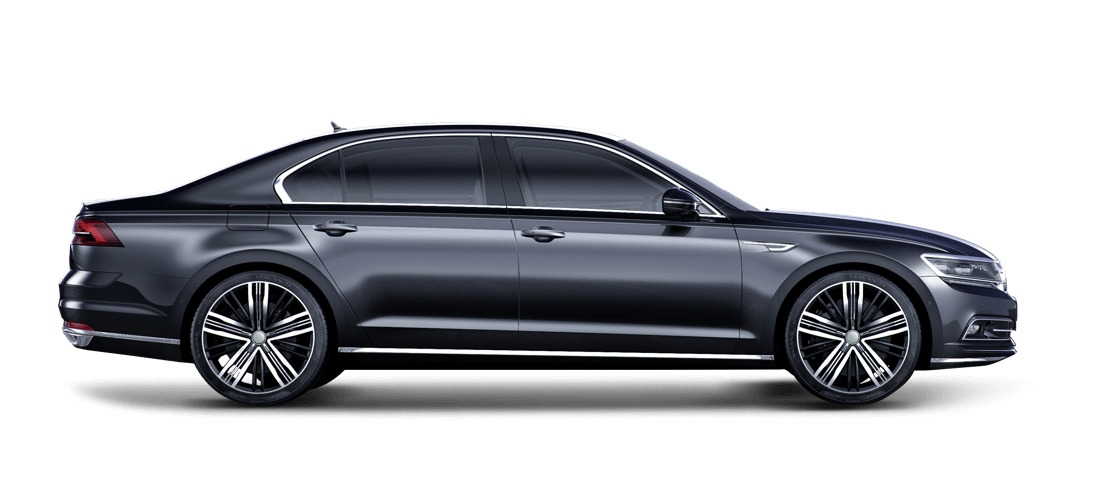
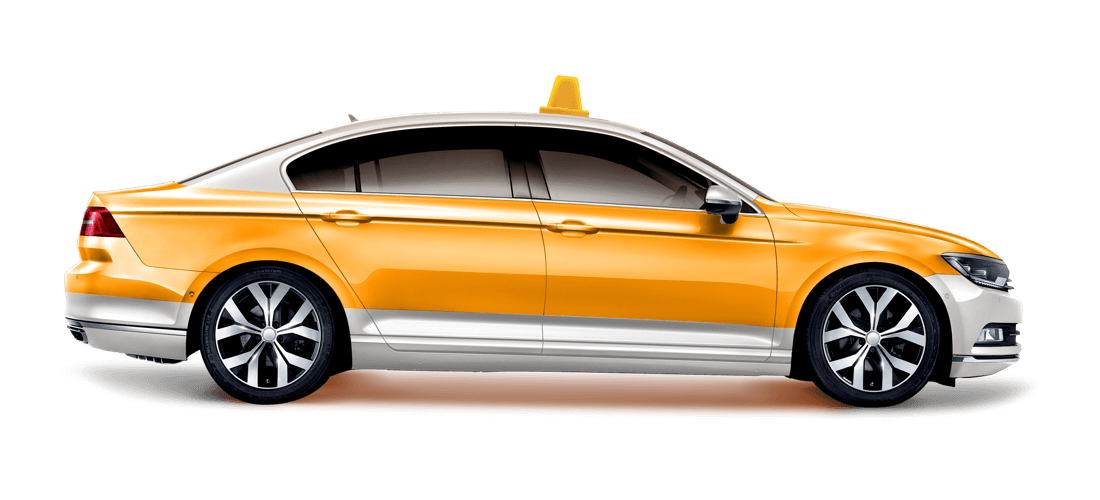
ThirdDay

diff --git a/gaja/src/component/Slider.js b/gaja/src/component/Slider.js
@@ -1,78 +1,38 @@
-import React, { useState, useEffect, useRef } from "react";
-import Slide from "./Slide";
-import styled from "styled-components";
-import img1 from "./../img/car1.jpg"; //자신이 원하는 이미지를 import 하세요.
-import img2 from "./../img/car2.JPG";
-import img3 from "./../img/car3.JPG";
-import img4 from "./../img/car4.JPG";
-import img5 from "./../img/car5.JPG";
-import img6 from "./../img/car6.JPG";
-import styles from "./css/Slider.module.css";
+import React, { useState } from "react";
+import SliderContent from "./SliderContent";
+import imageSlider from "./imageSlider";
+import Arrows from "./Arrows";
 
-const Container = styled.div`
-  width: 60%;
-  overflow: hidden; // 선을 넘어간 이미지들은 보이지 않도록 처리합니다.
-`;
-const Button = styled.button`
-  all: unset;
-  border: 1px solid coral;
-  padding: 0.5em 2em;
-  color: black;
-  border-radius: 10px;
-  &:hover {
-    transition: all 0.3s ease-in-out;
-    background-color: coral;
-    color: #fff;
-  }
-`;
-const SliderContainer = styled.div`
-  width: 100%;
-  display: flex; //이미지들을 가로로 나열합니다.
-`;
+import './Slider.css';
+// import Dots from "./Dots";
 
-const TOTAL_SLIDES = 2;
-export default function Slider() {
-  const [currentSlide, setCurrentSlide] = useState(0);
-  const slideRef = useRef(null);
-const nextSlide = () => {
-    if (currentSlide >= TOTAL_SLIDES) { // 더 이상 넘어갈 슬라이드가 없으면 슬라이드를 초기화합니다.
-      setCurrentSlide(0);
-    } else {
-      setCurrentSlide(currentSlide + 1);
-    }
-  };
-  const prevSlide = () => {
-    if (currentSlide === 0) {
-      setCurrentSlide(TOTAL_SLIDES);
-    } else {
-      setCurrentSlide(currentSlide - 1);
-    }
-  };
 
-  useEffect(() => {
-    slideRef.current.style.transition = "all 0.5s ease-in-out";
-    slideRef.current.style.transform = `translateX(-${currentSlide}00%)`; // 백틱을 사용하여 슬라이드로 이동하는 애니메이션을 만듭니다.
-  }, [currentSlide]);
-return (
-    <>
-    <div className={styles.sliderMain}>
-      <span>
-    <Container>
-      {currentSlide}
-      <SliderContainer ref={slideRef}>
-        <Slide img={img1} />
-        <Slide img={img2} />
-        <Slide img={img3} />
-        <Slide img={img4} />
-        <Slide img={img5} />
-        <Slide img={img6} />
-      </SliderContainer>
-      <Button onClick={prevSlide}>Previous Slide</Button>
-      <Button onClick={nextSlide}>Next Slide</Button>
-    </Container>
-    </span>
+const len = imageSlider.length -1;
 
-    </div>
-    </>
-  );
+export default function Slider(props) {
+    const [activeIndex, setActiveIndex] =useState(0);
+
+    return(
+        
+        <div className="slider-contatiner">
+            <br />
+            <h1>OPTIONs</h1>
+            <SliderContent activeIndex={activeIndex} imageSlider={imageSlider} 
+            />
+            <Arrows 
+                prevSlide={() =>
+                    setActiveIndex(activeIndex < 1 ? len : activeIndex -1)
+                }
+
+                nextSlide={()=>
+                    setActiveIndex(activeIndex === len ? 0 :activeIndex +1)
+                }
+            />
+            {/* <Dots 
+                activeIndex={activeIndex}
+                imageSlider={imageSlider}
+                onclick={(activeIndex) => setActiveIndex(activeIndex)}
+            /> */}
+        </div>
+    );
 }

diff --git a/gaja/src/component/Slider.css b/gaja/src/component/Slider.css
@@ -1,0 +1,112 @@
+*{
+    box-sizing: border-box;
+    margin: 0;
+    align-items: center;
+}
+
+:root {
+    --heights: 70vh;
+    --widths: 100%
+}
+
+.slider-container{
+
+    height: var(--heights);
+    width: var(--widths);
+    position: relative;
+    margin: auto;
+    overflow: hidden;
+
+}
+
+.active{
+    display: inline-block;
+}
+
+.inactive{
+    display: none;    
+}
+
+.slides{
+    height: var(--heights);
+    width: var(--widths);
+    position: relative;
+}
+
+.slide-image {
+    width: 100%;
+    height: 100%;
+    position: absolute;
+    object-fit: cover;
+}
+
+.slide-title,
+.slide-text{
+    width: 100%;
+    height: 100%;
+    color: black;
+    font-size: 50px;
+    position: absolute;
+    text-align: center;
+    top: 40%;
+    z-index: 10;
+}
+
+.slide-text{
+    top: 65%;
+    font-size: 1.5rem;
+    color: grey;
+}
+
+.prev, 
+.next{
+    text-align: center;
+    cursor: pointer;
+    z-index: 100;
+    position: absolute;
+    top: 60%;
+    width: auto;
+    padding: 1rem;
+    margin-top: 4rem;
+    font-size: 30px;
+    font-weight: bold;
+    border-radius: 0px 5px 5px 0px;
+}
+
+.prev:hover,
+.next:hover{
+    /* color: white;
+    background-color: rgba(0, 0, 0, 0.6); */
+    color: grey;
+    transition: all 0.5s ease-in;
+}
+
+.next{
+    right: 0;
+    border-radius: 5px 0px 0px 5px;
+}
+
+.all-dots{
+    width: 100%;
+    height: 100%;
+    position: absolute;
+    display: flex;
+    top: 85%;
+    justify-content: center;
+    z-index: 200;
+}
+
+.dot{
+    cursor: pointer;
+    height: 1rem;
+    width: 1rem;
+    margin: 0px 3px;
+    background-color: rgba(0, 0, 0, 0.3);
+    border-radius: 50%;
+    display: inline-block;
+}
+
+.active-dot,
+.dot:hover{
+    background-color: rgba(255, 255, 255, 0.5);
+}

diff --git a/gaja/src/component/Promotion.js b/gaja/src/component/Promotion.js
@@ -1,0 +1,24 @@
+import React from "react";
+import styles from "./Footer.module.css";
+
+export default function Footer() {
+    return (
+        <div>
+            <br />
+            <h1>PROMOTION</h1>
+            <br />
+            <div className={styles.video}>
+                <div>
+                    <iframe width="350" height="250" src="https://www.youtube.com/embed/MjK8_3_uSFQ" title="YouTube video player" frameborder="0" allow="accelerometer; autoplay; clipboard-write; encrypted-media; gyroscope; picture-in-picture" allowfullscreen></iframe>
+                </div>
+                <div>
+                    <iframe width="350" height="250" src="https://www.youtube.com/embed/-FhP5oOi5bA" title="YouTube video player" frameborder="0" allow="accelerometer; autoplay; clipboard-write; encrypted-media; gyroscope; picture-in-picture" allowfullscreen></iframe>
+                </div>
+                <div>
+                    <iframe width="350" height="250" src="https://www.youtube.com/embed/qfOE_of5_rE" title="YouTube video player" frameborder="0" allow="accelerometer; autoplay; clipboard-write; encrypted-media; gyroscope; picture-in-picture" allowfullscreen></iframe>
+                </div>
+            </div>
+        </div>
+
+    );
+}

diff --git a/gaja/src/component/SliderContent.js b/gaja/src/component/SliderContent.js
@@ -1,0 +1,20 @@
+import React from "react";
+
+export default function SliderContent({ activeIndex, imageSlider}){
+    return(
+        <section>
+            {imageSlider.map((slide, index)=>(
+
+                <div 
+                    key={index} 
+                    className={index === activeIndex ? "slides active" : "inactive"}
+                >
+
+                    <img className="slide-image" src={slide.urls} alt="" />
+                    <h2 className="slide-title">{slide.title}</h2>
+                    <h3 className="slide-text">{slide.description}</h3>
+                </div>
+            ))}
+        </section>
+    );
+}

diff --git a/gaja/src/component/Footer.module.css b/gaja/src/component/Footer.module.css
@@ -15,22 +15,9 @@
   }
   
   .video{
-    list-style-type: none; 
-    float: left;
-    position: relative;  
-    margin-top: 10%;
-    margin-left: 5%;
-  }
-  .button2{
-    list-style-type: none; 
-    float: left;
     position: relative;
-    margin-top: 1%; 
-    margin-left: 25%;
-  }
-  
-  .footer {
-    margin: 0;
+    margin: 0 auto; 
+    display: flex;
     justify-content: space-around;
     align-items: center;
   }
@@ -39,14 +26,8 @@
     display: flex;
     justify-content: space-around;
     position: absolute;
-    bottom: 40%;
   }
 
-  .car{
-    margin-top: 150px;
-    margin-left: 20%;
-  }
-  
   
 
   

diff --git a/gaja/src/component/imageSlider.js b/gaja/src/component/imageSlider.js
@@ -1,0 +1,32 @@
+import img1 from "../img/car1.png";
+import img2 from "../img/car2.png";
+import img3 from "../img/car3.png";
+import img4 from "../img/car4.png";
+
+export default [
+  {
+    title: "TAXI",
+    description: "WHENWEVER, WHEREVER, RIDE",
+    urls: img1,
+  },
+
+  {
+    title: "BLACK",
+    description: "LUXURY, RIDE",
+    urls: img2,
+  },
+
+  {
+    title: "GREEN",
+    description: "FUEL CELL, RIDE",
+    urls: img3,
+  },
+
+  {
+    title: "SANDING",
+    description: "TO AIRPORT",
+    urls: img4,
+
+  },
+
+]; 

diff --git a/gaja/src/component/Dots.js b/gaja/src/component/Dots.js
@@ -1,0 +1,16 @@
+import React from "react";
+
+export default function Dots({ activeIndex, onclick, imageSlider }){
+    return( 
+        <div className="all-dots">
+            {imageSlider.map((slide, index) => (
+                <span
+                    key={index}
+                    className={`${activeIndex === index ? "dot active-dot" : "dot"}`}
+                    onClick={() => onclick(index)}
+                ></span>
+            ))}
+
+        </div>
+    );
+}

diff --git a/gaja/src/component/Arrows.js b/gaja/src/component/Arrows.js
@@ -1,0 +1,15 @@
+import React from "react";
+
+export default function Arrows({ prevSlide, nextSlide}) {
+    return(
+        <div className="arrows">
+            <span className="prev" onClick={prevSlide}>
+                &#10094;
+            </span>
+            <span className="next" onClick={nextSlide}>
+                &#10095;
+            </span>
+        </div>
+    );
+};
+

diff --git a/gaja/src/App.js b/gaja/src/App.js
@@ -1,11 +1,12 @@
-import Footer from "./component/Footer";
-import Options from "./component/Options";
+
+import Promotion from "./component/Promotion";
+import Slider from "./component/Slider";
 
 function App() {
   return (
     <div className="App">
-      <Footer />
-      <Options />
+      <Promotion />
+      <Slider />
     </div>
 
   );
